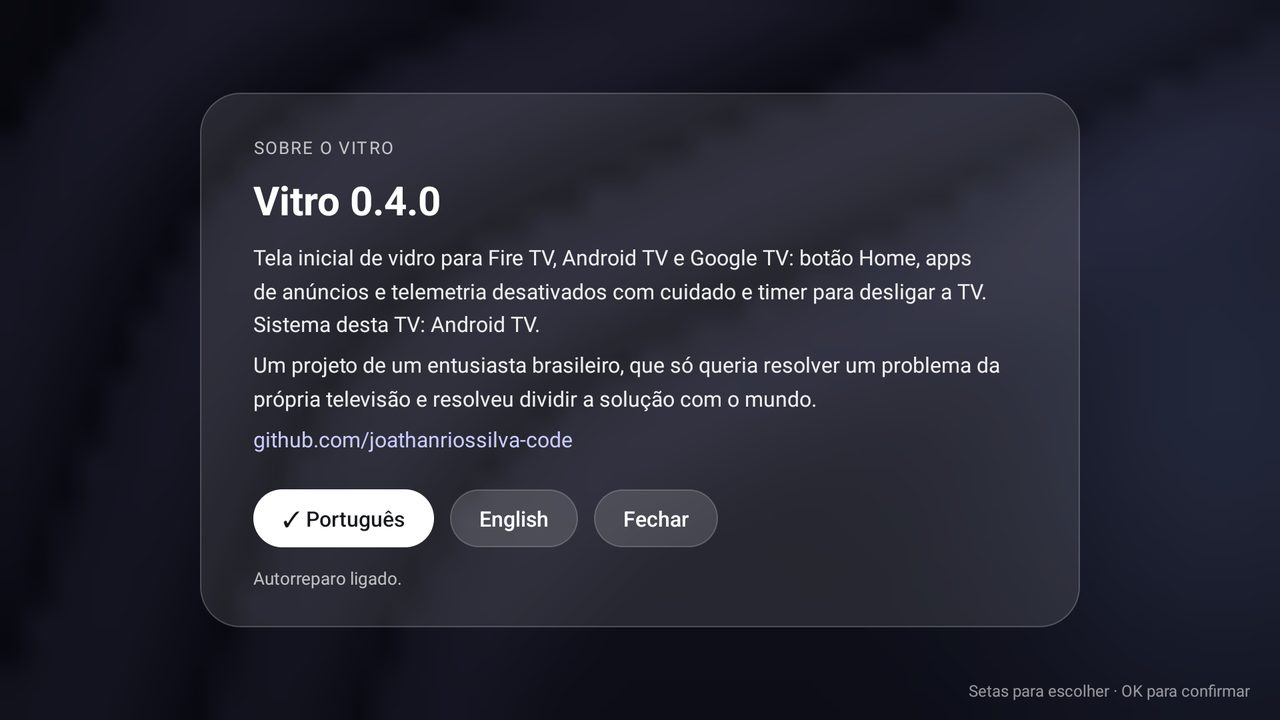
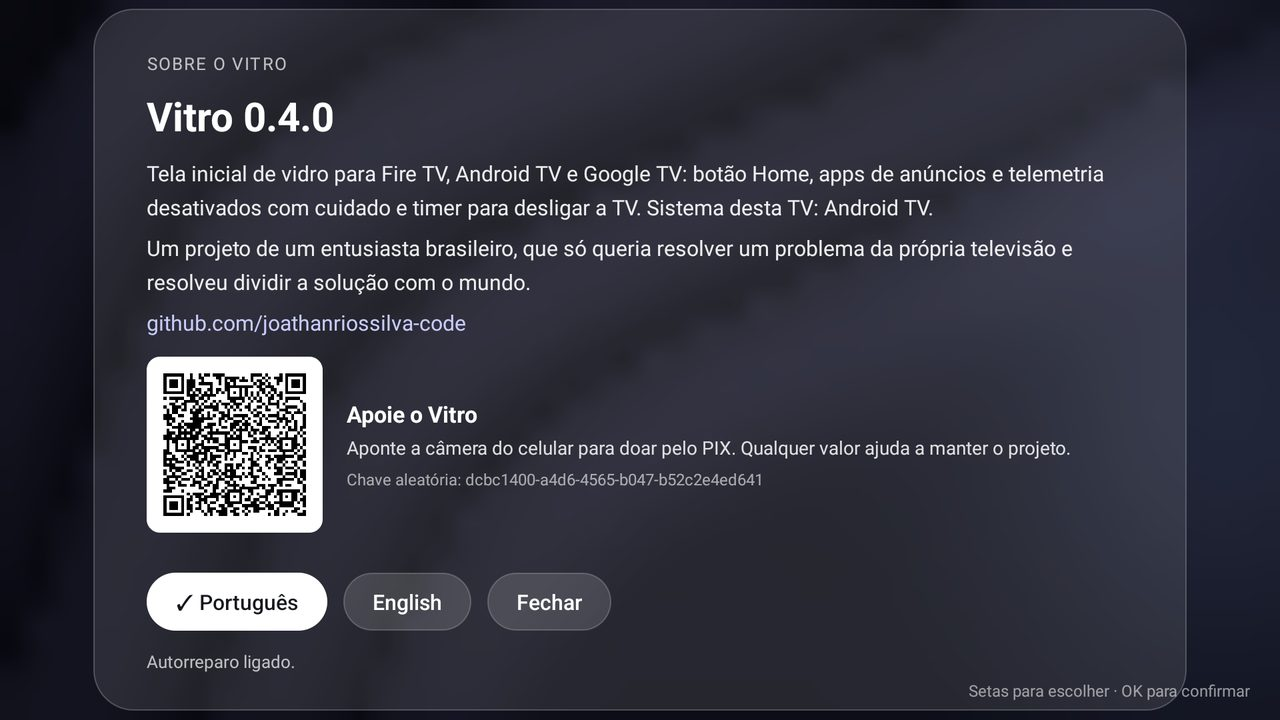
Tutorial com prints, apoio pelo PIX e GitHub Sponsors
- TUTORIAL.md e TUTORIAL.en.md: cada botão do controle e cada menu, com capturas.
- QR Code do PIX no README e no Sobre do app; .github/FUNDING.yml pronto para o GitHub Sponsors.

diff --git a/launcher/src/app/vitro/launcher/AboutActivity.java b/launcher/src/app/vitro/launcher/AboutActivity.java
@@ -15,7 +15,8 @@ public final class AboutActivity extends GlassActivity {
     }
 
     private void render() {
-        clear(NARROW);
+        // Com o bloco de apoio (versão pública), o painel largo: os textos ocupam menos linhas e tudo cabe na tela.
+        clear(hasAsset("doacao/pix.png") ? WIDE : NARROW);
         stepLabel.setText(L.t("SOBRE O VITRO", "ABOUT VITRO"));
         dots(0, 0);
         title.setText("Vitro " + version());
@@ -28,12 +29,87 @@ public final class AboutActivity extends GlassActivity {
                 "A project by a Brazilian enthusiast who just wanted to fix a problem with their own TV, and decided to "
                         + "share the fix with the world."));
         text(GITHUB).setTextColor(0xFFC9CCFF);
+        donation();
         android.view.View pt = key((L.en() ? "" : "✓ ") + "Português", v -> language(false));
         android.view.View en = key((L.en() ? "✓ " : "") + "English", v -> language(true));
         firstFocus = L.en() ? en : pt;
         key(L.t("Fechar", "Close"), v -> finish());
         status.setText(Repair.status(this));
         focusFirst();
+    }
+
+    /**
+     * Apoio ao projeto, só na versão pública: o QR Code do PIX (assets/doacao/pix.png, gerado por
+     * publico-extra/gerar-pix.py), a chave escrita e, quando existir assets/doacao/sponsors.txt, o endereço do GitHub
+     * Sponsors. Sem esses arquivos (a versão da TV do dono), o Sobre fica como antes.
+     */
+    private void donation() {
+        android.graphics.Bitmap qr;
+        try (java.io.InputStream in = getAssets().open("doacao/pix.png")) {
+            qr = android.graphics.BitmapFactory.decodeStream(in);
+        } catch (java.io.IOException x) {
+            return;
+        }
+        if (qr == null) return;
+        String key = asset("doacao/chave.txt"), sponsors = asset("doacao/sponsors.txt");
+
+        android.widget.LinearLayout row = new android.widget.LinearLayout(this);
+        row.setOrientation(android.widget.LinearLayout.HORIZONTAL);
+        row.setGravity(android.view.Gravity.CENTER_VERTICAL);
+        android.widget.ImageView img = new android.widget.ImageView(this);
+        // Ampliado sem suavizar: os módulos do QR continuam nítidos para a câmera do celular.
+        img.setImageBitmap(android.graphics.Bitmap.createScaledBitmap(qr, px(124), px(124), false));
+        img.setBackground(round(0xFFFFFFFF, 0, 0, 10));
+        img.setPadding(px(4), px(4), px(4), px(4));
+        row.addView(img, new android.widget.LinearLayout.LayoutParams(px(132), px(132)));
+
+        android.widget.LinearLayout col = new android.widget.LinearLayout(this);
+        col.setOrientation(android.widget.LinearLayout.VERTICAL);
+        col.setPadding(px(18), 0, 0, 0);
+        android.widget.TextView t = label(17, true, 0xFFFFFFFF);
+        t.setText(L.t("Apoie o Vitro", "Support Vitro"));
+        col.addView(t);
+        android.widget.TextView d = label(14, false, 0xD9FFFFFF);
+        d.setText(L.t("Aponte a câmera do celular para doar pelo PIX. Qualquer valor ajuda a manter o projeto.",
+                "Point your phone's camera to donate through PIX (Brazil). Any amount helps keep the project going."));
+        d.setLineSpacing(0f, 1.25f);
+        d.setPadding(0, px(4), 0, 0);
+        col.addView(d);
+        if (key != null) {
+            android.widget.TextView k = label(12, false, 0x99FFFFFF);
+            k.setText(L.t("Chave aleatória: ", "Random key: ") + key);
+            k.setPadding(0, px(6), 0, 0);
+            col.addView(k);
+        }
+        if (sponsors != null) {
+            android.widget.TextView g = label(13, false, 0xFFC9CCFF);
+            g.setText(L.t("Ou pelo GitHub Sponsors: ", "Or through GitHub Sponsors: ") + sponsors);
+            g.setPadding(0, px(6), 0, 0);
+            col.addView(g);
+        }
+        row.addView(col, new android.widget.LinearLayout.LayoutParams(0, android.view.ViewGroup.LayoutParams.WRAP_CONTENT, 1f));
+        android.widget.LinearLayout.LayoutParams lp = new android.widget.LinearLayout.LayoutParams(
+                android.view.ViewGroup.LayoutParams.MATCH_PARENT, android.view.ViewGroup.LayoutParams.WRAP_CONTENT);
+        lp.topMargin = px(6);
+        lp.bottomMargin = px(12);
+        body.addView(row, lp);
+    }
+
+    private boolean hasAsset(String name) {
+        try (java.io.InputStream in = getAssets().open(name)) {
+            return true;
+        } catch (java.io.IOException x) {
+            return false;
+        }
+    }
+
+    private String asset(String name) {
+        try (java.io.BufferedReader r = new java.io.BufferedReader(new java.io.InputStreamReader(getAssets().open(name), "UTF-8"))) {
+            String line = r.readLine();
+            return line == null || line.trim().isEmpty() ? null : line.trim();
+        } catch (java.io.IOException x) {
+            return null;
+        }
     }
 
     private void language(boolean en) {

diff --git a/TUTORIAL.md b/TUTORIAL.md
@@ -1,0 +1,94 @@
+# Tutorial do Vitro
+
+*English: [TUTORIAL.en.md](TUTORIAL.en.md).* Para instalar e fazer a primeira configuração, veja o [README](README.md).
+
+Tudo no Vitro se faz com o controle remoto: as setas, o OK e o Voltar.
+
+## Os botões do controle
+
+| Botão | O que faz no Vitro |
+|---|---|
+| **← →** | Anda pela barra de apps. O app em foco cresce, como numa lupa. |
+| **↑** | Sobe para os dois ícones do canto de cima: papel de parede e ajustes. |
+| **↓** | Volta para a barra. |
+| **OK** | Abre o app em foco, ou escolhe a linha do menu aberto. |
+| **OK segurado** (ou o botão ☰, se o controle tiver) | Abre o menu do app em foco: mover, informações, tirar da barra. |
+| **Voltar** | Fecha o menu ou a gaveta aberta. |
+| **Home** | De qualquer app, volta para o Vitro. |
+
+## Tela inicial
+
+![Tela inicial](docs/tutorial/pt-01-inicio.jpg)
+
+Em cima, a data e o relógio de vidro. Embaixo, a barra com os seus apps. O último item, **Todos**, abre a gaveta com
+tudo o que está instalado.
+
+## Trocar o papel de parede
+
+![Atalho do papel de parede](docs/tutorial/pt-03-atalho-papel.jpg)
+
+Aperte **↑** e fique no primeiro ícone do canto (a imagem). Cada **OK** troca para o próximo papel de parede. O mesmo
+vale para a linha *Papel de parede* dos ajustes.
+
+## Ajustes
+
+![Menu de ajustes](docs/tutorial/pt-04-menu.jpg)
+
+Aperte **↑**, vá ao segundo ícone do canto e aperte **OK**.
+
+| Linha | O que faz |
+|---|---|
+| **Configurações** | Abre as configurações do sistema da TV. |
+| **Tela inicial do sistema** | Abre a tela inicial da Amazon, do Google TV ou do Android TV. O Vitro não a troca de volta enquanto você estiver nela; o Home traz o Vitro de novo. |
+| **Papel de parede** | Cada OK passa para o próximo. O nome do atual aparece à direita. |
+| **Desligar a TV** | Timer: cada OK passa por 15, 30, 60 e 90 minutos e desligado (veja abaixo). |
+| **Sons** | Liga ou desliga os sons de navegação (um toque curto ao mover, confirmar e voltar). Vem desligado. |
+| **Autoreparar** | Confere e refaz o que uma atualização do sistema pode ter desfeito: o serviço do botão Home, a depuração, as permissões e os apps desativados. |
+| **Sobre** | Versão, créditos, idioma e apoio ao projeto. |
+
+## Organizar a barra
+
+![Menu de um app da barra](docs/tutorial/pt-05-menu-app.jpg)
+
+Com o foco num app da barra, **segure OK**:
+
+- **Mover para a esquerda / direita:** troca o app de lugar na barra.
+- **Informações do app:** abre a tela do app nas configurações (para limpar dados, desinstalar etc.).
+- **Tirar da barra:** o app sai da barra, mas continua instalado e na gaveta.
+
+## Todos os apps
+
+![Gaveta com todos os apps](docs/tutorial/pt-06-todos.jpg)
+
+O último item da barra, **Todos**, abre a gaveta. As setas andam pela grade, **OK** abre o app e **Voltar** fecha a gaveta.
+
+![Menu de um app da gaveta](docs/tutorial/pt-07-menu-gaveta.jpg)
+
+Na gaveta, **segure OK** sobre um app:
+
+- **Mover:** o app fica levantado; as setas o levam pela grade e **OK** o solta no lugar novo.
+- **Fixar na barra / Tirar da barra:** põe o app na barra, ou tira.
+- **Informações do app:** a tela do app nas configurações.
+
+![Movendo um app na gaveta](docs/tutorial/pt-08-mover.jpg)
+
+## Timer para desligar a TV
+
+![Timer de desligamento](docs/tutorial/pt-09-timer.jpg)
+
+Em **Ajustes › Desligar a TV**, cada **OK** escolhe 15, 30, 60 ou 90 minutos (ou desligado). Um minuto antes aparece um
+aviso na tela. Na hora, o Vitro põe o aparelho para dormir. Se a TV aceita HDMI-CEC, ela desliga junto; se não, ligue
+nela o desligamento automático sem sinal.
+
+## Sobre e apoio ao projeto
+
+![Sobre o Vitro, com o QR Code do PIX](docs/tutorial/pt-10-sobre.jpg)
+
+Em **Ajustes › Sobre**: a versão, os créditos e os botões **Português / English**, que trocam o idioma do app inteiro na
+hora. Embaixo, o QR Code para apoiar o projeto pelo PIX: aponte a câmera do celular.
+
+## Se algo parar de funcionar
+
+- **O Home voltou para a tela do sistema:** abra o Vitro e use **Ajustes › Autoreparar**.
+- **Um app sumiu da gaveta:** ele pode estar desativado. Ative em Configurações › Apps › o app › Ativar.
+- **Quer desfazer tudo:** veja [Desfazer](README.md#desfazer) no README.

diff --git a/TUTORIAL.en.md b/TUTORIAL.en.md
@@ -1,0 +1,96 @@
+# Vitro tutorial
+
+*Português: [TUTORIAL.md](TUTORIAL.md).* To install and run the first-time setup, see the [README](README.en.md).
+
+Everything in Vitro is done with the remote: the arrows, OK and Back.
+
+## Remote buttons
+
+| Button | What it does in Vitro |
+|---|---|
+| **← →** | Moves along the app bar. The focused app grows, like under a magnifier. |
+| **↑** | Goes up to the two icons in the top corner: wallpaper and settings. |
+| **↓** | Goes back to the bar. |
+| **OK** | Opens the focused app, or picks the line of the open menu. |
+| **Hold OK** (or the ☰ button, if your remote has one) | Opens the focused app's menu: move, app info, remove from bar. |
+| **Back** | Closes the open menu or the app drawer. |
+| **Home** | From any app, brings Vitro back. |
+
+## Home screen
+
+![Home screen](docs/tutorial/en-01-inicio.jpg)
+
+At the top, the date and the glass clock. At the bottom, the bar with your apps. The last item, **All**, opens the
+drawer with everything installed.
+
+## Change the wallpaper
+
+![Wallpaper shortcut](docs/tutorial/en-03-atalho-papel.jpg)
+
+Press **↑** and stay on the first icon in the corner (the picture). Each **OK** switches to the next wallpaper. The
+*Wallpaper* line in settings does the same.
+
+## Settings
+
+![Settings menu](docs/tutorial/en-04-menu.jpg)
+
+Press **↑**, go to the second icon in the corner and press **OK**.
+
+| Line | What it does |
+|---|---|
+| **Settings** | Opens the TV's system settings. |
+| **System home screen** | Opens the Amazon, Google TV or Android TV home screen. Vitro does not switch it back while you are there; Home brings Vitro again. |
+| **Wallpaper** | Each OK moves to the next one. The current name shows on the right. |
+| **Turn off the TV** | Timer: each OK goes through 15, 30, 60 and 90 minutes and off (see below). |
+| **Sounds** | Turns navigation sounds on or off (a short tap when moving, confirming and going back). Off by default. |
+| **Self-repair** | Checks and redoes what a system update may have undone: the Home button service, debugging, permissions and disabled apps. |
+| **About** | Version, credits, language and supporting the project. |
+
+## Arrange the bar
+
+![Menu of an app on the bar](docs/tutorial/en-05-menu-app.jpg)
+
+With the focus on an app in the bar, **hold OK**:
+
+- **Move left / right:** changes the app's place on the bar.
+- **App info:** opens the app's page in settings (to clear data, uninstall, etc.).
+- **Remove from bar:** the app leaves the bar but stays installed and in the drawer.
+
+## All apps
+
+![App drawer](docs/tutorial/en-06-todos.jpg)
+
+The last item on the bar, **All**, opens the drawer. The arrows move around the grid, **OK** opens the app and **Back**
+closes the drawer.
+
+![Menu of an app in the drawer](docs/tutorial/en-07-menu-gaveta.jpg)
+
+In the drawer, **hold OK** on an app:
+
+- **Move:** the app is lifted; the arrows carry it around the grid and **OK** drops it in the new place.
+- **Pin to bar / Remove from bar:** puts the app on the bar, or takes it off.
+- **App info:** the app's page in settings.
+
+![Moving an app in the drawer](docs/tutorial/en-08-mover.jpg)
+
+## Sleep timer
+
+![Sleep timer](docs/tutorial/en-09-timer.jpg)
+
+In **Settings › Turn off the TV**, each **OK** picks 15, 30, 60 or 90 minutes (or off). One minute before, a notice
+shows on screen. At the time, Vitro puts the device to sleep. If your TV supports HDMI-CEC it turns off too; if not,
+turn on its automatic power-off when there is no signal.
+
+## About and supporting the project
+
+![About Vitro, with the PIX QR code](docs/tutorial/en-10-sobre.jpg)
+
+In **Settings › About**: the version, the credits and the **Português / English** buttons, which switch the whole
+app's language right away. Below, the QR code to support the project through PIX (Brazil's instant payments): point
+your phone's camera at it.
+
+## If something stops working
+
+- **Home goes to the system screen again:** open Vitro and use **Settings › Self-repair**.
+- **An app is missing from the drawer:** it may be disabled. Enable it in Settings › Apps › the app › Enable.
+- **To undo everything:** see [Undo](README.en.md#undo) in the README.

diff --git a/README.md b/README.md
@@ -9,7 +9,7 @@ Tudo roda na própria TV. O Vitro não tem servidor, não manda dados para fora 
 > Um projeto de um entusiasta brasileiro, que só queria resolver um problema da própria televisão e resolveu
 > dividir a solução com o mundo.
 
-*English: [README.en.md](README.en.md).* O app fala português e inglês: segue o idioma da TV, e dá para trocar em
+**Como usar, botão por botão: [Tutorial](TUTORIAL.md).** *English: [README.en.md](README.en.md).* O app fala português e inglês: segue o idioma da TV, e dá para trocar em
 Home › ajustes do Vitro › Sobre.
 
 ![Tela inicial do Vitro com o menu de ajustes aberto](docs/guia/menu.jpg)
@@ -24,7 +24,8 @@ Home › ajustes do Vitro › Sobre.
 6. [O que é desativado em cada sistema](#o-que-%C3%A9-desativado-em-cada-sistema)
 7. [Desfazer](#desfazer)
 8. [Desligar a TV pela voz (Fire TV)](#desligar-a-tv-pela-voz-fire-tv)
-9. [Compilar](#compilar), [Créditos](#cr%C3%A9ditos) e [Licença](#licen%C3%A7a)
+9. [Apoie o projeto](#apoie-o-projeto)
+10. [Compilar](#compilar), [Créditos](#cr%C3%A9ditos) e [Licença](#licen%C3%A7a)
 
 ## Onde funciona
 
@@ -188,7 +189,7 @@ com poucos MB e os avisos do sistema estão em inglês.
 | ![Tela inicial](docs/guia/inicio.jpg) | ![Todos os apps](docs/guia/todos-os-apps.jpg) |
 | **Tela inicial.** Relógio de vidro e a barra de apps. Segure OK sobre um app para mover ou tirar da barra. | **Todos os apps.** O último item da barra abre a gaveta com tudo o que está instalado. |
 | ![Menu de ajustes](docs/guia/menu.jpg) | ![Sobre](docs/guia/sobre.jpg) |
-| **Ajustes** (o ícone no canto de cima). | **Sobre.** Versão, créditos e a escolha de idioma. |
+| **Ajustes** (o ícone no canto de cima). | **Sobre.** Versão, créditos, idioma e o QR Code para apoiar o projeto. |
 
 O menu de ajustes tem estas linhas:
 
@@ -200,7 +201,9 @@ O menu de ajustes tem estas linhas:
   desliga junto.
 - **Sons:** um toque curto ao mover, confirmar e voltar. Vem desligado.
 - **Autoreparar:** confere e refaz o que uma atualização desfez.
-- **Sobre:** versão, créditos e idioma.
+- **Sobre:** versão, créditos, idioma e apoio ao projeto (QR Code do PIX).
+
+Cada botão do controle e cada menu, com prints: [Tutorial](TUTORIAL.md).
 
 Papéis de parede livres que vêm com o Vitro:
 
@@ -252,6 +255,18 @@ em Mais › Rotinas › +:
 Quando a rotina manda "desligar a TV", o Vitro põe o Fire TV para dormir. Se a sua TV aceita HDMI-CEC (Anynet+,
 SIMPLINK, BRAVIA Sync...), ela desliga junto. Se não aceita, ligue nela o desligamento automático sem sinal (nas
 Samsung, Sistema › Solução Ecológica › Espera sem Sinal).
+
+## Apoie o projeto
+
+O Vitro é gratuito e continua sendo. Se ele ajudou a sua TV e você quiser apoiar, aponte a câmera do celular para o QR
+Code do PIX (qualquer valor):
+
+<img src="docs/doacao/pix.png" alt="QR Code PIX para apoiar o Vitro" width="220">
+
+Chave aleatória: `dcbc1400-a4d6-4565-b047-b52c2e4ed641`
+
+O mesmo QR Code aparece no app, em Ajustes › Sobre. Fora do Brasil, o apoio pelo **GitHub Sponsors** fica no botão
+"Sponsor" no topo desta página.
 
 ## Compilar
 

diff --git a/README.en.md b/README.en.md
@@ -8,7 +8,7 @@ Everything runs on the TV itself. Vitro has no server, sends no data anywhere an
 > A project by a Brazilian enthusiast who just wanted to fix a problem with their own TV, and decided to share the
 > fix with the world.
 
-*Português: [README.md](README.md)* (the full guide, with more screenshots). The app speaks English and
+**How to use it, button by button: [Tutorial](TUTORIAL.en.md).** *Português: [README.md](README.md)* (the full guide, with more screenshots). The app speaks English and
 Portuguese: it follows the TV's language, and you can switch in Home › Vitro settings › About.
 
 ![Vitro's home screen with the settings menu open](docs/guia/menu.jpg)
@@ -133,6 +133,16 @@ Vitro with no third-party libraries.
   it off for good, uninstall Vitro.
 - **Everything:** uninstall Vitro. Revoke the key in Developer options › Revoke USB debugging authorizations.
   Disabled apps stay disabled until you enable them.
+
+## Support the project
+
+Vitro is free and will stay free. If it helped your TV and you want to support it, use the **Sponsor** button at the
+top of this page (GitHub Sponsors). In Brazil, you can also donate any amount through PIX by pointing your phone's
+camera at this QR code:
+
+<img src="docs/doacao/pix.png" alt="PIX QR code to support Vitro" width="220">
+
+The same QR code is in the app, in Settings › About.
 
 ## Build
 
